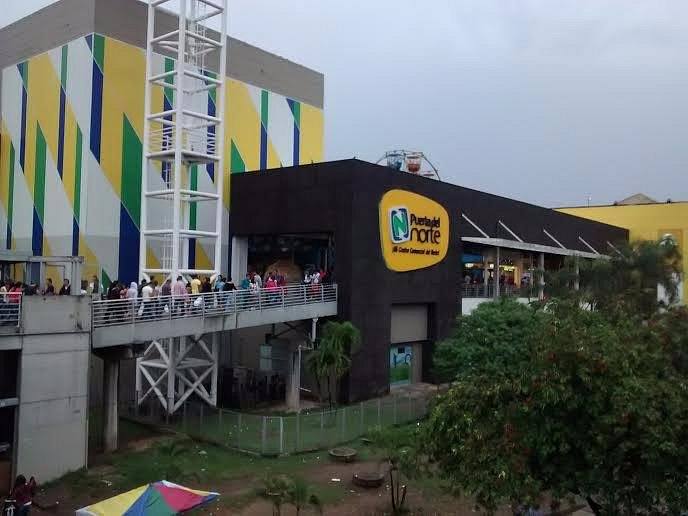
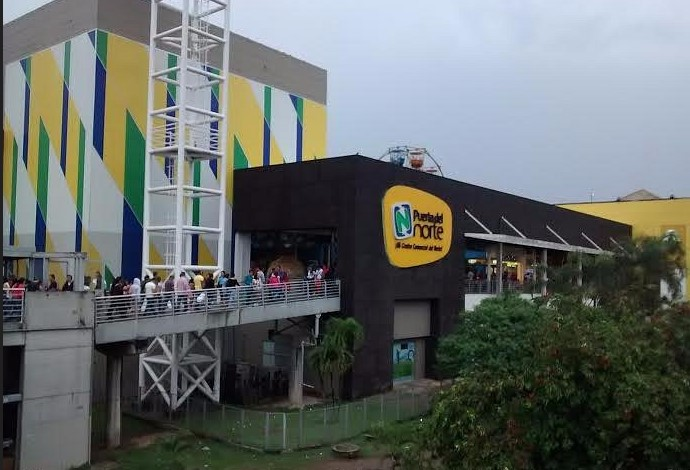
agragando cambio cc

diff --git a/Centroscomerciales.html b/Centroscomerciales.html
@@ -125,7 +125,7 @@
 
                         </span></p>
                         <div class="palne-img-area">
-                           <img src="./img/Centroscomerciales/Segunda.jpeg" width="450px" alt="images">
+                           <img src="./img/Centroscomerciales/cc.png" width="450px" alt="images">
                         </div>
                      </div>
                   </div>
@@ -314,7 +314,7 @@
               <div class="row">
                   <div class="col-xl-6 col-lg-6 col-md-6 col-sm-12">
                       <div class="blog-box">
-                          <figure><img src="./img/Centroscomerciales/Santatata.jpg" alt="#"/></figure>
+                          <figure><img src="./img/Centroscomerciales/santa fe.jpg" alt="#"/></figure>
                           <br>
                           <h3>Santafe</h3>
                           <p>Es uno de los centros comerciales más grandes de la ciudad y alberga numerosas tiendas, restaurantes y opciones de entretenimiento. Además de las tiendas, cuenta con un parque de diversiones en el interior llamado "Mundo Aventura".</p>
